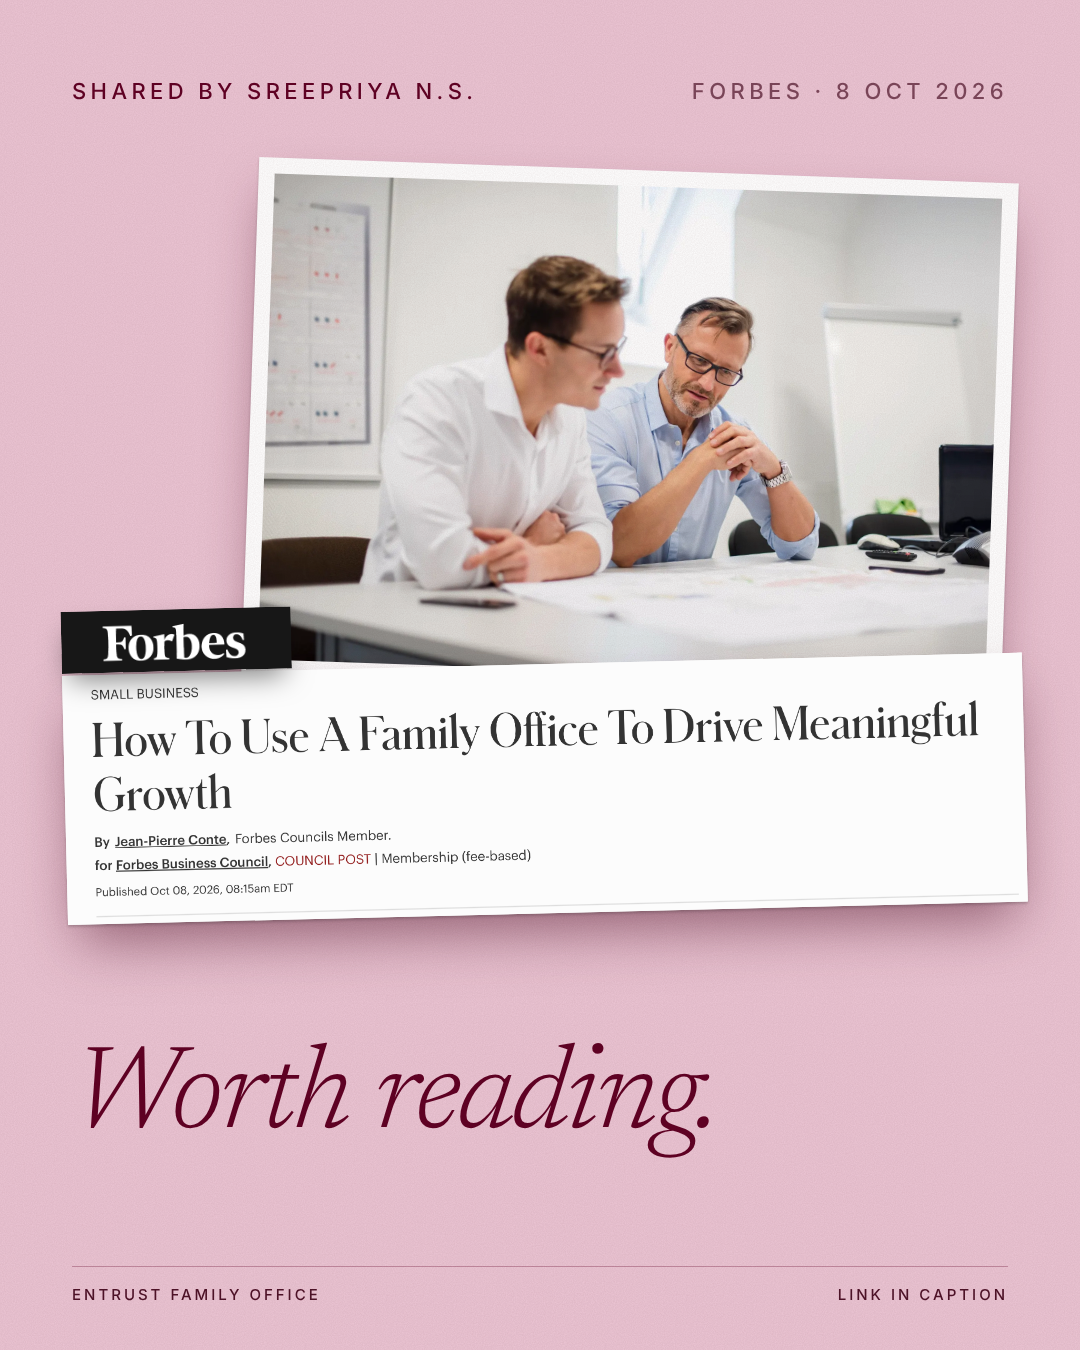
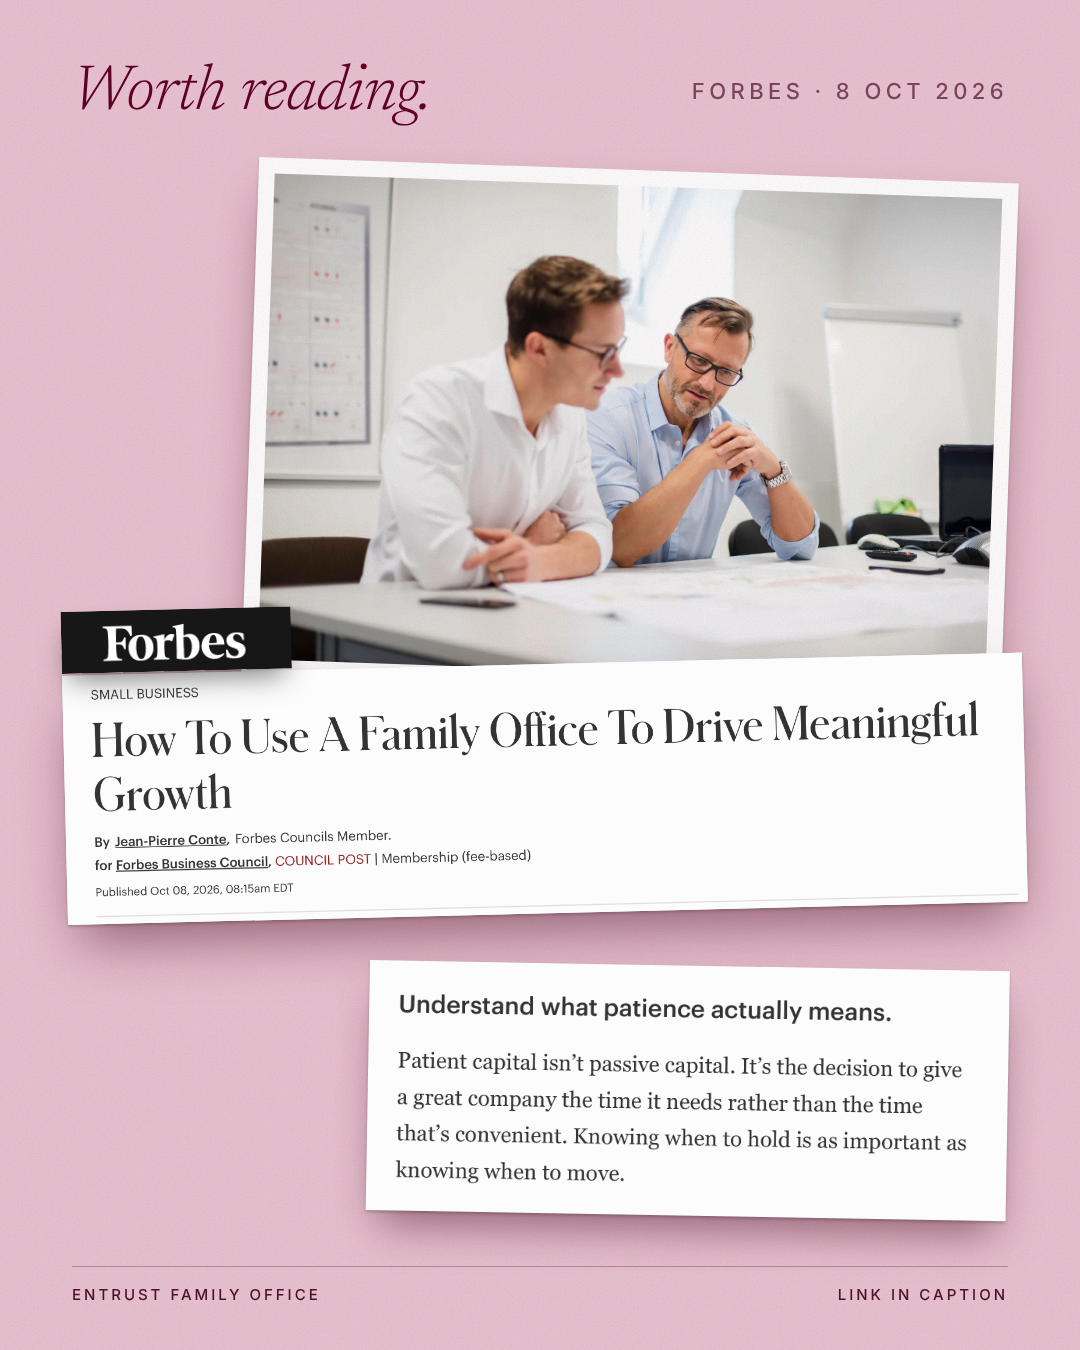
D and E: replace 'Shared by' with a real article paragraph crop
Claude-Session: https://claude.ai/code/session_015ZcYuSFmNpRXrRjq4RRRaB

Changed region(s): [[0.0611, 0.6844, 0.9472, 0.9333], [0.0611, 0.0311, 0.4278, 0.0933]]

diff --git a/SREEPRIYA_PROJECT/05_WORKING/option_E_clipping_on_desk.html b/SREEPRIYA_PROJECT/05_WORKING/option_E_clipping_on_desk.html
@@ -2,6 +2,7 @@
 <link rel="stylesheet" href="base.css"><style>
 body{background:var(--blush);color:var(--burgundy)}
 .top{position:absolute;left:72px;right:72px;top:80px;display:flex;justify-content:space-between;color:var(--burgundy)}
+.cuetop{font:italic 300 64px/1 'Newsreader';letter-spacing:-.01em;text-transform:none;position:relative;top:-18px}
 .top span:last-child{color:var(--wine);opacity:.7}
 .print{position:absolute;left:250px;top:170px;width:760px;padding:16px 16px 16px;background:#fff;transform:rotate(2deg);box-shadow:0 2px 3px rgba(0,0,0,.18),0 26px 50px -12px rgba(79,18,40,.5)}
 .print .im{width:100%;aspect-ratio:1920/1282;background:url(../03_IMAGES/forbes_getty_hero.png) center/cover}
@@ -10,13 +11,14 @@ body{background:var(--blush);color:var(--burgundy)}
 .mast img{width:100%;height:100%;object-fit:cover;display:block}
 .clip{position:absolute;left:62px;top:676px;width:960px;transform:rotate(-1.4deg);transform-origin:left top;background:#FCFCFC;box-shadow:0 2px 3px rgba(0,0,0,.2),0 28px 55px -12px rgba(79,18,40,.55);z-index:2}
 .clip img{display:block;width:100%}
-.cue{position:absolute;left:72px;top:1040px;font:italic 300 118px/1 'Newsreader';color:var(--burgundy);letter-spacing:-.02em;white-space:nowrap}
+.ex{position:absolute;left:370px;top:960px;width:640px;padding:16px 18px;background:#FCFCFC;transform:rotate(1deg);transform-origin:left top;box-shadow:0 2px 3px rgba(0,0,0,.2),0 24px 44px -12px rgba(79,18,40,.55);z-index:2}
+.ex img{display:block;width:100%}
 .foot{position:absolute;left:72px;right:72px;bottom:48px;border-top:1px solid rgba(97,1,36,.3);padding-top:20px;display:flex;justify-content:space-between;font:500 15px/1 Inter;letter-spacing:.2em;text-transform:uppercase;color:var(--wine)}
 </style></head><body>
-<div class="top eyebrow"><span>Shared by Sreepriya N.S.</span><span>Forbes · 8 Oct 2026</span></div>
+<div class="top eyebrow"><span class="serif cuetop">Worth reading.</span><span>Forbes · 8 Oct 2026</span></div>
 <div class="print"><div class="im"></div><div class="cr">GETTY</div></div>
 <div class="mast"><img src="../03_IMAGES/forbes_masthead_crop.png"></div>
 <div class="clip"><img src="../03_IMAGES/forbes_headline_crop.png"></div>
-<div class="cue">Worth reading.</div>
+<div class="ex"><img src="../03_IMAGES/forbes_excerpt_patience.png"></div>
 <div class="foot"><span>Entrust Family Office</span><span>Link in caption</span></div>
 <div class="grain" style="opacity:.3"></div></body></html>

diff --git a/SREEPRIYA_PROJECT/05_WORKING/option_D_forbes_above_note_below.html b/SREEPRIYA_PROJECT/05_WORKING/option_D_forbes_above_note_below.html
@@ -10,8 +10,9 @@ body{background:var(--paper);color:var(--wine)}
 .by{position:absolute;left:72px;top:826px;font:400 23px/1.55 Inter;color:#5a4048}
 .by b{font-weight:600;color:var(--wine)}
 .note{position:absolute;left:0;right:0;top:960px;bottom:0;background:var(--burgundy)}
-.lab{position:absolute;left:72px;top:1004px;color:var(--sand);font-size:18px}
-.cue{position:absolute;left:72px;top:1050px;font:italic 300 96px/1 'Newsreader';color:var(--blush);letter-spacing:-.02em}
+.ex{position:absolute;left:72px;top:1000px;width:612px;padding:14px 16px;background:#FCFCFC;transform:rotate(-1deg);box-shadow:0 2px 3px rgba(0,0,0,.25),0 22px 40px -10px rgba(0,0,0,.55)}
+.ex img{display:block;width:100%}
+.cue{position:absolute;right:72px;top:1012px;text-align:right;font:italic 300 80px/.98 'Newsreader';color:var(--blush);letter-spacing:-.02em}
 .foot{position:absolute;left:72px;right:72px;bottom:48px;border-top:1px solid rgba(204,181,159,.3);padding-top:20px;display:flex;justify-content:space-between;font:500 15px/1 Inter;letter-spacing:.2em;text-transform:uppercase;color:var(--mauve)}
 </style></head><body>
 <div class="photo"></div><div class="credit">GETTY</div>
@@ -20,7 +21,7 @@ body{background:var(--paper);color:var(--wine)}
 <div class="hl">How To Use A Family Office To Drive Meaningful Growth</div>
 <div class="by"><b>By Jean-Pierre Conte</b>, Forbes Councils Member<br>Forbes Business Council · 8 October 2026</div>
 <div class="note"></div>
-<div class="lab eyebrow">Shared by Sreepriya N.S.</div>
-<div class="cue">Worth reading.</div>
+<div class="ex"><img src="../03_IMAGES/forbes_excerpt_patience.png"></div>
+<div class="cue">Worth<br>reading.</div>
 <div class="foot"><span>Entrust Family Office</span><span>Link in caption</span></div>
 <div class="grain" style="opacity:.1"></div></body></html>

diff --git a/SREEPRIYA_PROJECT/README.md b/SREEPRIYA_PROJECT/README.md
@@ -8,6 +8,6 @@ Two 1080×1350 (4:5) options. Editable masters are HTML in `05_WORKING/`; re-exp
 
 Exports: `06_EXPORTS/Instagram/`. Not yet approved; Entrust logo not supplied (typographic placeholder used).
 - Option C (editorial, recommended): `05_WORKING/option_C_editorial.html`. Unaltered Getty photo, Forbes masthead, article headline and Sreepriya's own line from her LinkedIn caption.
-- Option D (Forbes above, note below): `05_WORKING/option_D_forbes_above_note_below.html`. Forbes article block in paper tone; Sreepriya's "Shared by" layer in a separate burgundy band.
-- Option E (clipping on desk): `05_WORKING/option_E_clipping_on_desk.html`. Photo print and real Forbes page clipping on blush; "Shared by Sreepriya N.S." above.
+- Option D (Forbes above, note below): `05_WORKING/option_D_forbes_above_note_below.html`. Forbes article block in paper tone; article paragraph crop plus "Worth reading." in a separate burgundy band.
+- Option E (clipping on desk): `05_WORKING/option_E_clipping_on_desk.html`. Photo print and real Forbes page clipping on blush; "Worth reading." above and a real paragraph crop below.
 - Option C is superseded: its signed quote under the Forbes headline read as her authorship.

diff --git a/SREEPRIYA_PROJECT/ASSET_REGISTER.md b/SREEPRIYA_PROJECT/ASSET_REGISTER.md
@@ -11,3 +11,4 @@
 | Fonts | Newsreader (SIL OFL) and Inter (SIL OFL), from Google Fonts, stored in `04_FONTS/` |
 | Export | 1080×1350 px PNG |
 | Editable masters | `05_WORKING/*.html`, `base.css`, `render.js` |
+| Excerpt crop | Paragraph under 'Understand what patience actually means.' (page 5 of the PDF), rendered at 300 dpi, unaltered: `03_IMAGES/forbes_excerpt_patience.png` |
